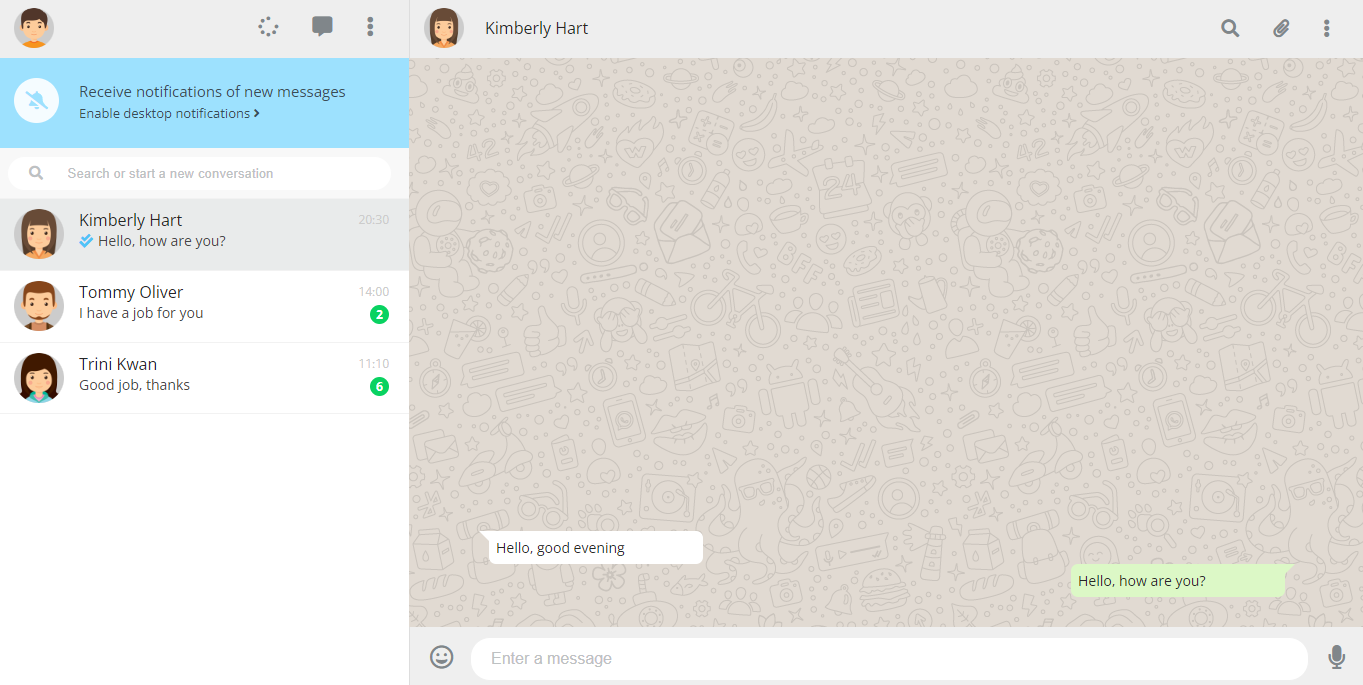
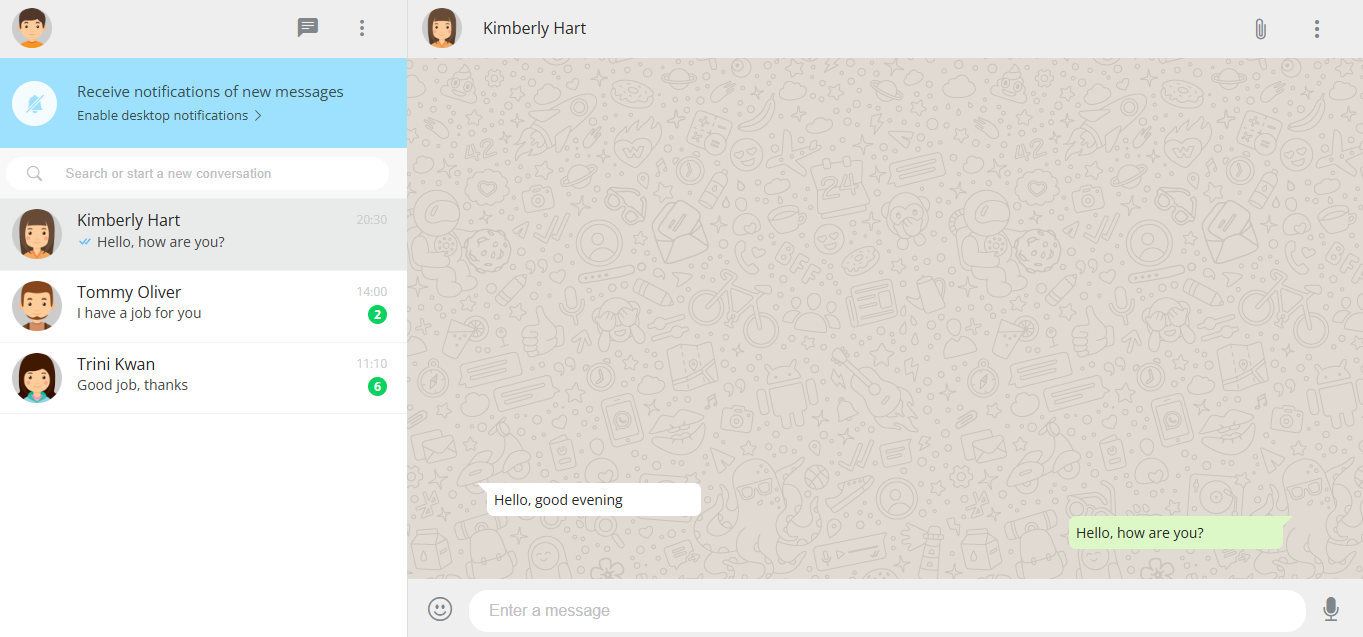
update-project

diff --git a/index.html b/index.html
@@ -7,7 +7,7 @@
 	<link rel="shortcut icon" href="img/icon.png">
 	<link rel="stylesheet" href="https://fonts.googleapis.com/css?family=Open+Sans:300,400,600,700&display=swap">
 	<link rel="stylesheet" type="text/css" href="css/style.css">
-	<script src="https://kit.fontawesome.com/bf7e05c402.js"></script>
+	<link rel="stylesheet" href="https://cdn.jsdelivr.net/npm/bootstrap-icons@1.13.1/font/bootstrap-icons.min.css">
 </head>
 <body>
 	<div class="container">
@@ -15,18 +15,19 @@
 			<div class="toolbar-container">
 				<img class="user-photo" src="img/avatar-1.png">
 				<div class="icon-toolbar-container">
-					<i class="fas fa-spinner"></i>
-					<i class="fas fa-comment-alt"></i>
-					<i class="fas fa-ellipsis-v"></i>
+					<i class="bi bi-chat-left-text-fill"></i>
+					<i class="bi bi-three-dots-vertical"></i>
 				</div>
 			</div>
 			<div class="notification-container">
-				<i class="fas fa-bell-slash"></i>
+				<div class="icon-notification-container">
+					<i class="bi bi-bell-slash-fill"></i>
+				</div>			
 				<p class="receive-notification">Receive notifications of new messages</p>
-				<p class="activate-notification">Enable desktop notifications <i class="fas fa-angle-right"></i></p>
+				<p class="activate-notification">Enable desktop notifications <i class="bi bi-chevron-right"></i></p>
 			</div>
 			<div class="search-container">
-				<i class="fas fa-search"></i>
+				<i class="bi bi-search"></i>
 				<input type="text" name="search" placeholder="Search or start a new conversation">
 			</div>
 			<div class="contact-container">
@@ -34,7 +35,7 @@
 					<img class="user-photo" src="img/avatar-2.png">
 					<div class="user-info">
 						<p class="user-name">Kimberly Hart</p>
-						<p class="user-message-preview"><i class="fas fa-check-double"></i>Hello, how are you?</p>
+						<p class="user-message-preview"><i class="bi bi-check-all"></i>Hello, how are you?</p>
 					</div>
 					<div class="message-info">
 						<p class="message-time">20:30</p>
@@ -70,11 +71,10 @@
 					<img class="user-photo" src="img/avatar-2.png">
 					<p class="user-name">Kimberly Hart</p>
 				</div>
-				<ul class="chat-tools-container">
-					<li><i class="fas fa-search"></i></li>
-					<li><i class="fas fa-paperclip"></i></li>
-					<li><i class="fas fa-ellipsis-v"></i></li>
-				</ul>
+				<div class="chat-tools-container">
+					<i class="bi bi-paperclip"></i>
+					<i class="bi bi-three-dots-vertical"></i>
+				</div>
 			</nav>
 			<div class="messages-container">
 				<div class="bg-image"></div>
@@ -84,9 +84,9 @@
 				</div>
 			</div>
 			<div class="send-message-container">
-				<i class="far fa-grin"></i>
+				<i class="bi bi-emoji-smile"></i>
 				<input type="text" name="message" placeholder="Enter a message">
-				<i class="fas fa-microphone"></i>
+				<i class="bi bi-mic-fill"></i>
 			</div>
 		</main>		
 	</div>

diff --git a/css/style.css b/css/style.css
@@ -69,7 +69,7 @@ ul {
 	box-sizing: border-box;
 }
 
-.fas.fa-bell-slash {
+.icon-notification-container i {
 	width: 45px;
 	height: 45px;
 	text-align: center;
@@ -79,7 +79,6 @@ ul {
 	color: #9DE1FE;
 	background-color: #F5FCFF;
 	position: absolute;
-	top: 20px;
 	left: 15px;
 }
 
@@ -87,9 +86,9 @@ ul {
 	margin: 0;
 }
 
-.notification-container .receive-notification {
+.receive-notification {
 	font-size: 15px;
-	margin-bottom: 3px;
+	padding-bottom: 5px;
 }
 
 .activate-notification {
@@ -99,21 +98,21 @@ ul {
 /* search */
 
 .search-container {
-	height: 50px;
 	width: 100%;
+	height: 50px;
 	padding-left: 7.5px;
 	padding-top: 7.5px;
-	background-color: #F8F8F8;
-	position: relative;
+	background-color: #F8F8F8;	
 	color: #BDC1C3;
+	position: relative;
 	box-sizing: border-box;
 }
 
 .search-container i {
 	position: absolute;
 	left: 30px;
-	top: 18px;
-	font-size: 14px;
+	top: 15px;
+	font-size: 15px;
 }
 
 .search-container input {
@@ -123,8 +122,8 @@ ul {
 	padding-left: 60px;
 	border-radius: 17.5px;
 	background-color: #FFF;
-	box-sizing: border-box;
 	color: #80868A;
+	box-sizing: border-box;
 }
 
 .search-container ::placeholder {
@@ -195,9 +194,10 @@ ul {
 	color: #454545;
 }
 
-.fa-check-double {
-	margin-right: 5px;
+.user-message-preview i {
 	color: #4FC3F7;
+	font-size: 15px;
+	margin-right: 5px;
 }
 
 .message-info {
@@ -267,12 +267,11 @@ ul {
 	margin-right: 20px;
 }
 
-.chat-tools-container li {
-	display: inline-block;
-	margin-left: 15px;
-	margin-right: 15px;
-	font-size: 18px;
+.chat-tools-container i {
 	color: #80868A;
+	font-size: 22px;
+	margin-left: 15px;
+	margin-right: 15px;	
 	cursor: pointer;
 }
 
@@ -391,6 +390,6 @@ ul {
 	line-height: 60px;
 }
 
-.fa-microphone {
+.bi-mic-fill {
 	float: right;
 }

diff --git a/README.md b/README.md
@@ -1,6 +1,8 @@
-## Documentation of this repository
+## Repository documentation
 
 This project is a clone of WhatsApp Web and was developed with HTML and CSS. Project created during my Web Development studies.
 
 
 <img src="/img/image.png">
+
+> Observation: This project isn't responsive.
